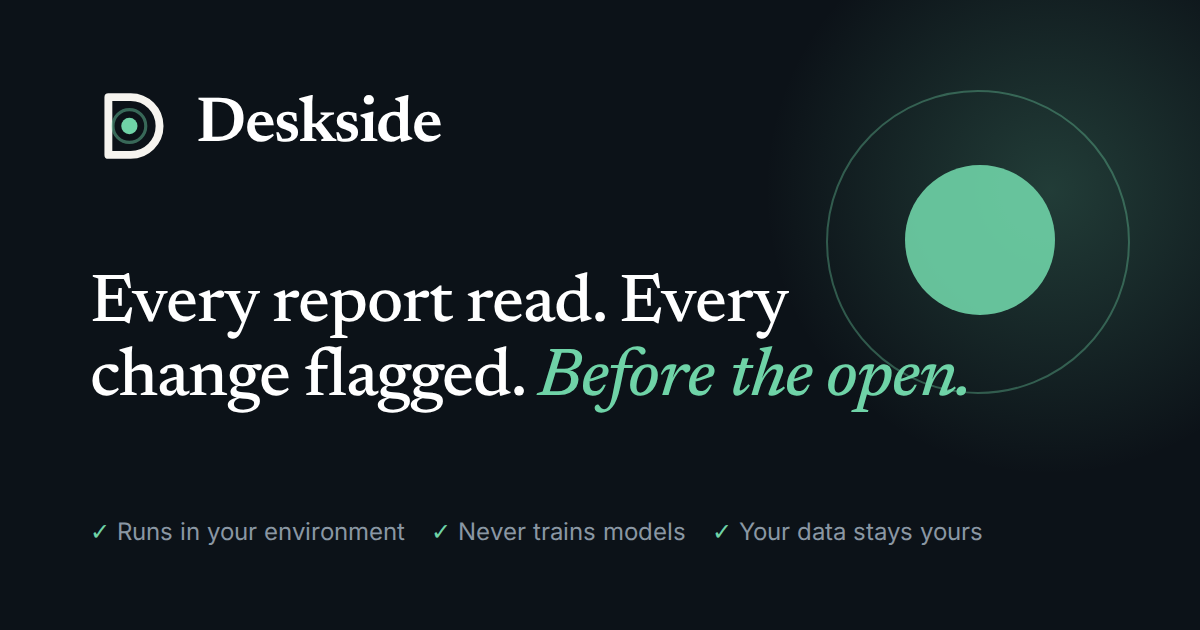
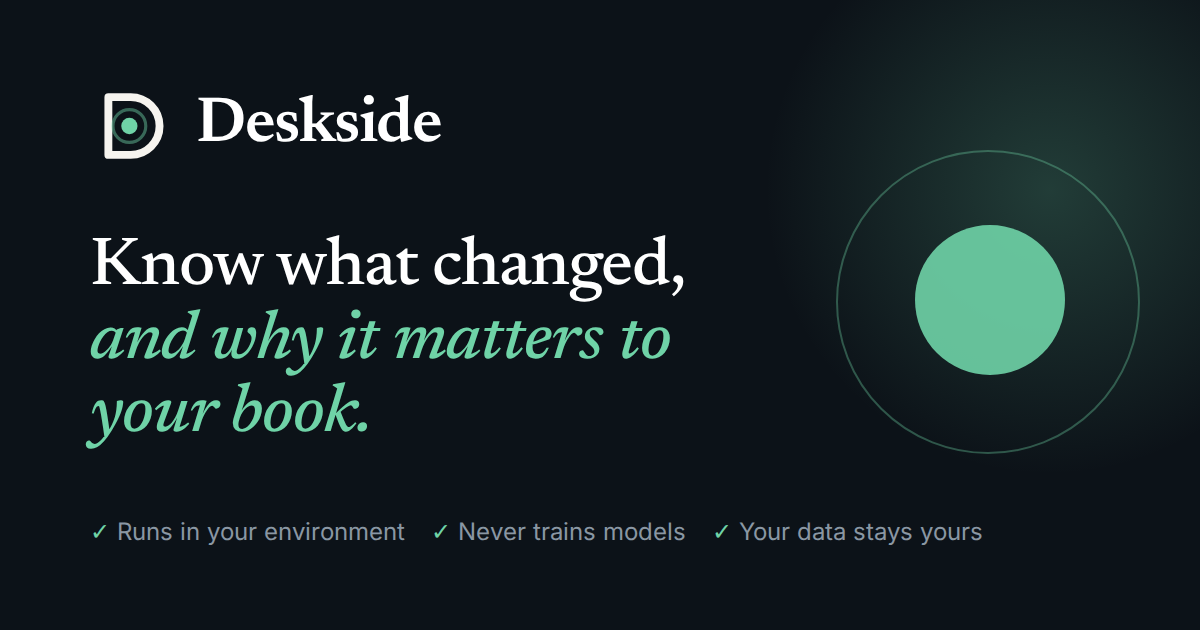
New headline: 'Know what changed, and why it matters to your book.'
Repositions the hero around connecting the research a fund already pays
for to its own notes and positions, running privately in its
environment. Updates meta descriptions and the social share card.

Claude-Session: https://claude.ai/code/session_018rmoXqvW9yfj1D3hMCk4ea

diff --git a/index.html b/index.html
@@ -4,9 +4,9 @@
   <meta charset="utf-8">
   <meta name="viewport" content="width=device-width, initial-scale=1">
   <title>Deskside — AI research agents for hedge funds</title>
-  <meta name="description" content="Deskside agents read every filing, broker note, alt-data release, and expert call the moment it lands, compare it with what you already know, and flag what changed for your book. They run inside your environment, and your data stays yours.">
+  <meta name="description" content="Deskside connects the research a fund already pays for, including broker notes, alt data, expert calls, and filings, to its own notes, models, and positions. Private AI agents flag what changed and why it matters, running entirely inside your environment.">
   <meta property="og:title" content="Deskside — AI research agents for hedge funds">
-  <meta property="og:description" content="Every report read. Every change flagged. Before the open. Private AI research agents that run inside your fund.">
+  <meta property="og:description" content="Know what changed, and why it matters to your book. Private AI research agents that run inside your fund.">
   <meta property="og:type" content="website">
   <meta property="og:image" content="https://desksidelabs.com/assets/og-image.png">
   <meta property="og:image:width" content="1200">
@@ -49,9 +49,9 @@
       <canvas id="hero-3d" class="hero-3d" aria-hidden="true"></canvas>
       <div class="container hero-grid">
         <div>
-          <p class="eyebrow">AI research agents for hedge funds</p>
-          <h1>Every report read. Every change flagged. <em>Before the open.</em></h1>
-          <p class="lede">Deskside agents read your filings, broker notes, alt data, and expert calls as they land. They check each one against your model and what you already know, and tell your team what changed and why it matters for the book. They run inside your environment and are live on your coverage in weeks.</p>
+          <p class="eyebrow">Private AI research agents for hedge funds</p>
+          <h1>Know what changed, <em>and why it matters to your book.</em></h1>
+          <p class="lede">Deskside connects the research you already pay for, including broker notes, alt data, expert calls, and filings, to your own notes, models, and positions. Agents watch all of it, compare every update with what you already know, and tell your team what changed. Everything runs inside your environment.</p>
           <div class="hero-actions">
             <a class="btn btn-primary" href="contact.html">See it on your coverage <span class="arrow">→</span></a>
             <a class="btn btn-ghost" href="#summaries">How it works</a>
